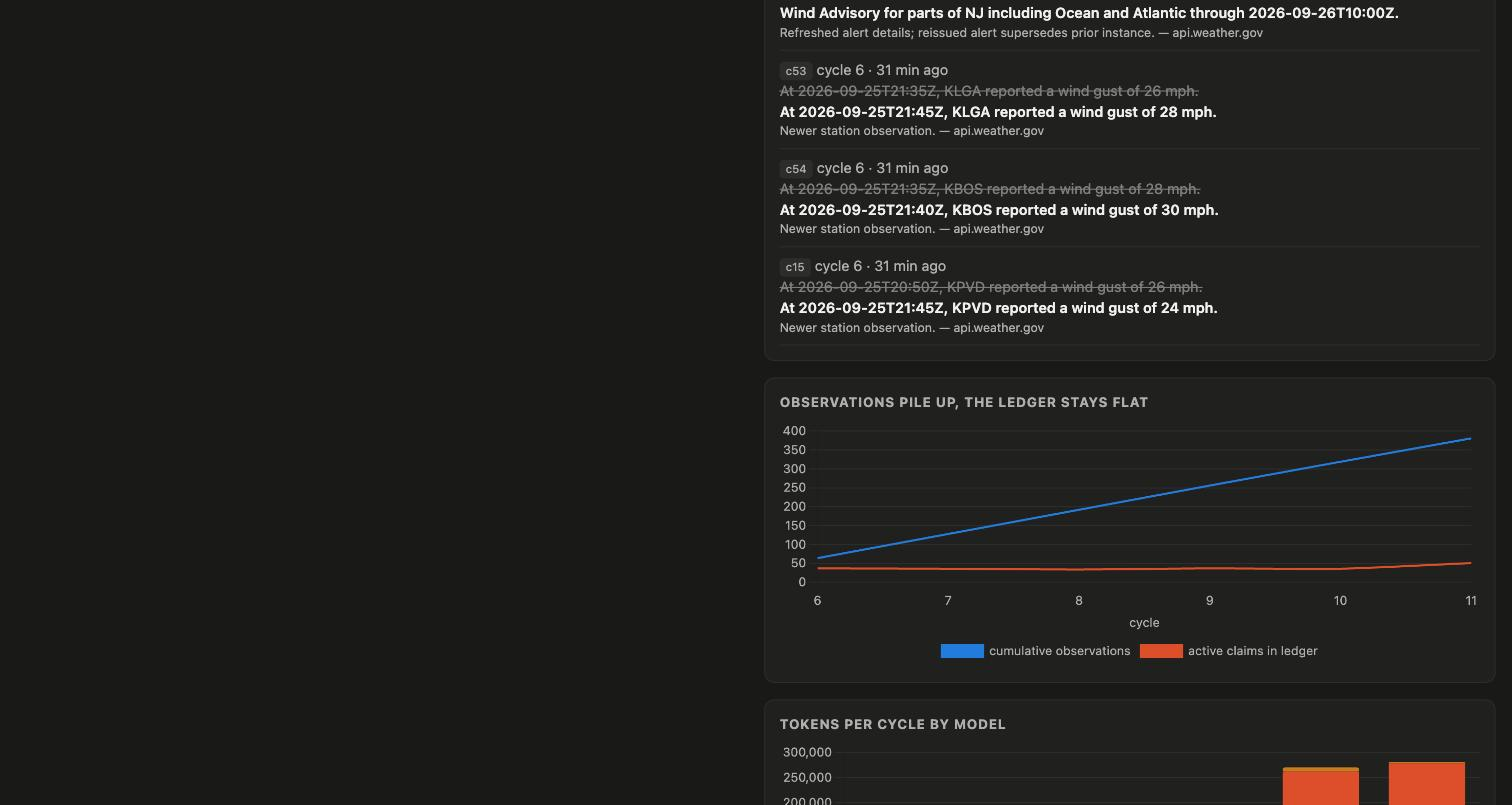
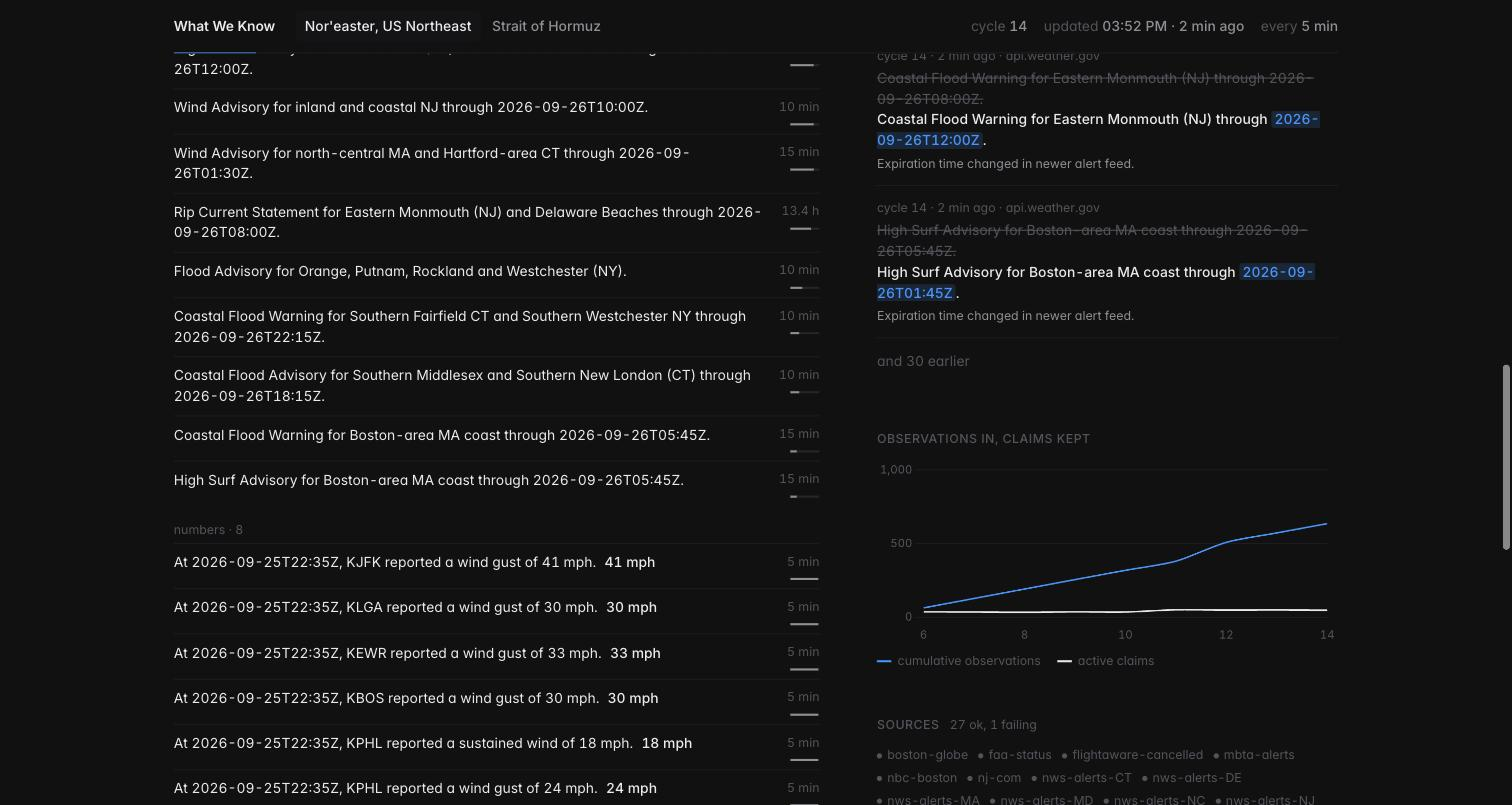
Dashboard redesign: hero summary, change diff, dense claims, single accent; README screenshots updated

diff --git a/src/dashboard/index.html b/src/dashboard/index.html
@@ -4,94 +4,131 @@
 <meta charset="utf-8">
 <meta name="viewport" content="width=device-width, initial-scale=1">
 <title>What We Know</title>
+<link rel="preconnect" href="https://fonts.googleapis.com"><link rel="preconnect" href="https://fonts.gstatic.com" crossorigin>
+<link href="https://fonts.googleapis.com/css2?family=Inter:wght@400;500;600&display=swap" rel="stylesheet">
 <script src="https://cdn.jsdelivr.net/npm/chart.js@4.4.1/dist/chart.umd.min.js"></script>
 <style>
-:root{--bg:#fcfcfb;--panel:#ffffff;--ink:#1a1a19;--ink2:#5a5a58;--muted:#8a8a88;--line:#e6e6e3;--c1:#2a78d6;--c2:#eb6834;--c3:#1baf7a;--c4:#eda100;--good:#008300;--bad:#c62828}
-@media (prefers-color-scheme: dark){:root:not([data-theme="light"]){--bg:#1a1a19;--panel:#232322;--ink:#f2f2f0;--ink2:#b8b8b4;--muted:#8a8a88;--line:#333331;--c1:#3987e5;--c2:#d95926;--c3:#199e70;--c4:#c98500;--good:#4caf50;--bad:#ef5350}}
-*{box-sizing:border-box}body{margin:0;background:var(--bg);color:var(--ink);font:14px/1.45 -apple-system,BlinkMacSystemFont,"Segoe UI",Inter,sans-serif;padding:16px}
-header{display:flex;flex-wrap:wrap;gap:12px 24px;align-items:baseline;margin-bottom:14px}
-h1{font-size:20px;margin:0}h2{font-size:13px;text-transform:uppercase;letter-spacing:.06em;color:var(--ink2);margin:0 0 8px}
-select{font:inherit;padding:4px 8px;background:var(--panel);color:var(--ink);border:1px solid var(--line);border-radius:6px}
-.kv{color:var(--ink2)}.kv b{color:var(--ink);font-weight:600}
-.grid{display:grid;grid-template-columns:1fr 1fr;gap:16px}@media(max-width:900px){.grid{grid-template-columns:1fr}}
-.panel{background:var(--panel);border:1px solid var(--line);border-radius:10px;padding:14px;margin-bottom:16px}
-p.summary{font-size:16px;line-height:1.5;margin:0}
-table{width:100%;border-collapse:collapse;font-size:13px}th,td{text-align:left;padding:5px 6px;border-bottom:1px solid var(--line);vertical-align:top}th{color:var(--ink2);font-weight:600}
-.num{text-align:right;font-variant-numeric:tabular-nums}.tag{display:inline-block;padding:1px 6px;border-radius:4px;font-size:11px;background:var(--line);color:var(--ink2)}
-.corr{padding:8px 0;border-bottom:1px solid var(--line)}.corr .from{color:var(--muted);text-decoration:line-through}.corr .to{font-weight:600}.corr .why{color:var(--ink2);font-size:12px}
-.health{display:grid;grid-template-columns:repeat(auto-fill,minmax(150px,1fr));gap:6px}.health div{border:1px solid var(--line);border-radius:6px;padding:5px 7px;font-size:12px}
-.dot{display:inline-block;width:8px;height:8px;border-radius:50%;margin-right:5px}.ok{background:var(--good)}.bad{background:var(--bad)}
-.sponsors{display:grid;grid-template-columns:repeat(auto-fill,minmax(160px,1fr));gap:10px}.sponsors div{border:1px solid var(--line);border-radius:8px;padding:8px 10px}.sponsors b{display:block;font-size:20px}.sponsors small{color:var(--ink2)}
-canvas{max-height:240px}img.card{width:100%;border-radius:8px;border:1px solid var(--line)}
-.oq li{margin:2px 0}.warn{color:var(--bad)}
+/* One accent. Everything else is a gray scale. Red exists only for a broken source. */
+:root{--bg:#0f0f10;--bg2:#141416;--ink:#ededef;--ink2:#9a9aa1;--ink3:#5e5e66;--line:#1f1f23;--line2:#2a2a30;--accent:#5e9eff;--accent-dim:rgba(94,158,255,.16);--bad:#f0625d}
+@media (prefers-color-scheme: light){:root:not([data-theme="dark"]){--bg:#fcfcfc;--bg2:#f5f5f6;--ink:#151517;--ink2:#6b6b73;--ink3:#a4a4ab;--line:#ececee;--line2:#dcdce0;--accent:#2a6fdb;--accent-dim:rgba(42,111,219,.12);--bad:#d33b36}}
+*{box-sizing:border-box}html{-webkit-font-smoothing:antialiased}
+body{margin:0;background:var(--bg);color:var(--ink);font:13.5px/1.5 Inter,-apple-system,BlinkMacSystemFont,"Segoe UI",sans-serif;font-feature-settings:"tnum" 1,"cv11" 1}
+a{color:inherit;text-decoration:none}
+.wrap{max-width:1180px;margin:0 auto;padding:0 24px 64px}
+/* top bar: story as tabs, quiet meta, a 1px refresh progress line */
+.bar{position:sticky;top:0;z-index:2;background:var(--bg);display:flex;align-items:center;gap:20px;height:52px;border-bottom:1px solid var(--line)}
+.brand{font-weight:600;letter-spacing:-.01em}
+.tabs{display:flex;gap:2px}.tab{padding:5px 9px;border-radius:6px;color:var(--ink2);cursor:pointer;font-weight:500}.tab:hover{background:var(--bg2);color:var(--ink)}.tab.on{color:var(--ink);background:var(--bg2)}
+.meta{margin-left:auto;color:var(--ink3);display:flex;gap:16px;white-space:nowrap}.meta b{color:var(--ink2);font-weight:500}
+.progress{position:absolute;left:0;bottom:-1px;height:1px;background:var(--accent);width:0;opacity:.8;transition:width 1s linear}
+/* hero: the summary is the product */
+.hero{padding:40px 0 28px;border-bottom:1px solid var(--line)}
+.hero h1{font-size:12px;font-weight:500;color:var(--ink3);letter-spacing:.04em;text-transform:uppercase;margin:0 0 14px}
+.summary{font-size:21px;line-height:1.45;font-weight:400;letter-spacing:-.012em;margin:0;max-width:880px}
+.stat{display:flex;gap:28px;margin-top:22px;color:var(--ink2)}.stat b{color:var(--ink);font-weight:500}.stat .chg{color:var(--accent)}
+.cols{display:grid;grid-template-columns:minmax(0,7fr) minmax(0,5fr);gap:56px;padding-top:32px}
+@media(max-width:900px){.cols{grid-template-columns:1fr;gap:32px}.meta{display:none}}
+h2{font-size:12px;font-weight:500;color:var(--ink3);letter-spacing:.04em;text-transform:uppercase;margin:0 0 12px;display:flex;align-items:baseline;gap:10px}h2 span{color:var(--ink3);font-weight:400;text-transform:none;letter-spacing:0}
+section{margin-bottom:44px}
+/* claims: dense rows, confidence as a hairline, type as a muted word, sources on hover */
+.claim{display:grid;grid-template-columns:1fr auto;gap:16px;padding:8px 0;border-top:1px solid var(--line);align-items:start}
+.claim:first-child{border-top:0}.claim .t{color:var(--ink)}.claim .r{color:var(--ink3);white-space:nowrap;text-align:right;font-size:12px}
+.claim .v{color:var(--ink);font-weight:500;margin-left:8px}.claim .src{display:none;color:var(--ink3);font-size:12px;margin-top:2px}
+.claim:hover .src{display:block}.claim .conf{display:block;width:28px;height:2px;background:var(--line2);margin:7px 0 0 auto}
+.claim .conf i{display:block;height:2px;background:var(--ink2)}
+.group{color:var(--ink3);font-size:12px;padding:14px 0 4px}
+/* corrections: a diff. old is struck and muted; new is the only accented text on the page. */
+.corr{padding:12px 0;border-top:1px solid var(--line)}.corr:first-child{border-top:0}
+.corr .when{color:var(--ink3);font-size:12px;margin-bottom:3px}.corr .old{color:var(--ink3);text-decoration:line-through;text-decoration-color:var(--ink3)}
+.corr .new{color:var(--ink);font-weight:500}.corr .new mark{background:var(--accent-dim);color:var(--accent);padding:0 3px;border-radius:3px}
+.corr .why{color:var(--ink2);font-size:12px;margin-top:3px}
+.oq li{color:var(--ink2);margin:4px 0;padding-left:14px;position:relative}.oq li:before{content:"?";position:absolute;left:0;color:var(--ink3)}
+/* chart: one accented line, one white line, no grid noise */
+.chart{height:180px}.legend{display:flex;gap:16px;color:var(--ink3);font-size:12px;margin-top:6px}.legend i{display:inline-block;width:14px;height:2px;vertical-align:middle;margin-right:6px}
+.health{display:flex;flex-wrap:wrap;gap:4px 10px;font-size:12px;color:var(--ink3)}.health span:before{content:"";display:inline-block;width:5px;height:5px;border-radius:50%;background:var(--ink3);margin-right:5px;vertical-align:middle}.health span.bad{color:var(--bad)}.health span.bad:before{background:var(--bad)}
+.card{width:100%;border-radius:8px;border:1px solid var(--line);display:block}
+.foot{color:var(--ink3);font-size:12px;border-top:1px solid var(--line);padding-top:16px;display:flex;flex-wrap:wrap;gap:6px 22px}.foot b{color:var(--ink2);font-weight:500}
+.empty{color:var(--ink3)}
+@media (prefers-reduced-motion: reduce){.progress{transition:none}}
 </style>
 </head>
 <body>
-<header>
-  <h1>What We Know</h1>
-  <select id="story"></select>
-  <span class="kv">cycle <b id="cycle">–</b></span>
-  <span class="kv">running since <b id="since">–</b></span>
-  <span class="kv">cycles <b id="cycles">–</b></span>
-  <span class="kv">last cycle <b id="lastms">–</b></span>
-  <span class="kv" id="rt"></span>
-</header>
-<div class="grid">
-  <div>
-    <div class="panel"><h2>Summary</h2><p class="summary" id="summary">Waiting for the first ledger…</p><div class="kv" style="margin-top:6px" id="summaryBy"></div></div>
-    <div class="panel"><h2>Claims <span class="tag" id="claimCount"></span></h2><table><thead><tr><th>claim</th><th>type</th><th class="num">value</th><th class="num">conf</th><th>confirmed</th><th class="num">src</th></tr></thead><tbody id="claims"></tbody></table></div>
-    <div class="panel"><h2>Open questions</h2><ul class="oq" id="oq"></ul></div>
+<div class="wrap">
+  <div class="bar">
+    <span class="brand">What We Know</span>
+    <nav class="tabs" id="tabs"></nav>
+    <div class="meta"><span>cycle <b id="cycle">–</b></span><span>updated <b id="updated">–</b></span><span>every <b>5 min</b></span></div>
+    <div class="progress" id="progress"></div>
   </div>
-  <div>
-    <div class="panel"><h2>Corrections</h2><div id="corrections"></div></div>
-    <div class="panel"><h2>Observations pile up, the ledger stays flat</h2><canvas id="chart1"></canvas></div>
-    <div class="panel"><h2>Tokens per cycle by model</h2><canvas id="chart2"></canvas></div>
-    <div class="panel"><h2>Source health</h2><div class="health" id="health"></div></div>
-    <div class="panel"><h2>Latest situation card</h2><div id="card"><span class="kv">no card yet</span></div></div>
+
+  <div class="hero">
+    <h1 id="title">–</h1>
+    <p class="summary" id="summary">Waiting for the first ledger…</p>
+    <div class="stat" id="stat"></div>
   </div>
+
+  <div class="cols">
+    <div>
+      <section><h2>Claims <span id="claimCount"></span></h2><div id="claims"></div></section>
+      <section><h2>Open questions</h2><ul class="oq" id="oq" style="margin:0;padding:0;list-style:none"></ul></section>
+    </div>
+    <div>
+      <section><h2>What changed <span id="corrCount"></span></h2><div id="corrections"></div></section>
+      <section><h2>Observations in, claims kept</h2><div class="chart"><canvas id="chart1"></canvas></div><div class="legend"><span><i style="background:var(--accent)"></i>cumulative observations</span><span><i style="background:var(--ink)"></i>active claims</span></div></section>
+      <section><h2>Sources <span id="healthCount"></span></h2><div class="health" id="health"></div></section>
+      <section id="cardSec" style="display:none"><h2>Latest card</h2><img class="card" id="card" alt="situation card"><div class="empty" id="cardMeta" style="font-size:12px;margin-top:6px"></div></section>
+    </div>
+  </div>
+
+  <div class="foot" id="foot"></div>
 </div>
-<div class="panel"><h2>Who did what</h2><div class="sponsors" id="sponsors"></div></div>
 <script>
 const $=id=>document.getElementById(id);
 const css=v=>getComputedStyle(document.documentElement).getPropertyValue(v).trim();
-let story=new URLSearchParams(location.search).get('story')||'noreaster';
-const rel=iso=>{if(!iso)return '–';const m=(Date.now()-new Date(iso))/60000;if(m<1)return 'just now';if(m<60)return Math.round(m)+' min ago';return (m/60).toFixed(1)+' h ago'};
 const esc=s=>String(s??'').replace(/[&<>]/g,c=>({'&':'&amp;','<':'&lt;','>':'&gt;'}[c]));
-const j=async p=>{const r=await fetch(p+(p.includes('?')?'&':'?')+'story='+story);return r.json()};
-let ch1,ch2;
-function mkCharts(){
-  const grid={color:css('--line')},ticks={color:css('--ink2')};
-  Chart.defaults.color=css('--ink2');Chart.defaults.font.family=getComputedStyle(document.body).fontFamily;
-  ch1=new Chart($('chart1'),{type:'line',data:{labels:[],datasets:[
-    {label:'cumulative observations',data:[],borderColor:css('--c1'),backgroundColor:css('--c1'),borderWidth:2,pointRadius:0,tension:.2},
-    {label:'active claims in ledger',data:[],borderColor:css('--c2'),backgroundColor:css('--c2'),borderWidth:2,pointRadius:0,tension:.2}]},
-    options:{animation:false,interaction:{mode:'index',intersect:false},plugins:{legend:{position:'bottom'}},scales:{x:{title:{display:true,text:'cycle'},grid:{display:false},ticks},y:{beginAtZero:true,grid,ticks}}}});
-  ch2=new Chart($('chart2'),{type:'bar',data:{labels:[],datasets:[]},options:{animation:false,interaction:{mode:'index',intersect:false},plugins:{legend:{position:'bottom'}},scales:{x:{stacked:true,title:{display:true,text:'cycle'},grid:{display:false},ticks},y:{stacked:true,beginAtZero:true,grid,ticks}}}});
-}
-const provColor={openai:css('--c1'),liquid:css('--c2'),bedrock:css('--c3'),'openai-fallback':css('--c4')};
-async function refresh(){
-  try{
-    const [st,led,co,se,he,ca,sp]=await Promise.all([j('/api/status'),j('/api/ledger'),j('/api/corrections'),j('/api/series'),j('/api/health'),j('/api/cards'),j('/api/sponsors')]);
-    $('rt').innerHTML=st.rawtree?'':'<span class="warn">RawTree not configured: showing local cache only</span>';
-    const L=led.ledger;$('cycle').textContent=L?L.cycle:'–';$('since').textContent=st.since?new Date(st.since).toLocaleTimeString([], {hour:'2-digit',minute:'2-digit'})+' ('+rel(st.since)+')':'–';
-    $('cycles').textContent=st.cycles??'–';$('lastms').textContent=st.last?Math.round(st.last.ms/1000)+' s':'–';
-    if(L){$('summary').textContent=L.summary||'(empty)';$('summaryBy').textContent=st.last?('summary by '+st.last.summary_by+' · merge by '+st.last.merge_model+' · triage by '+st.last.triage_model+' · ledger ~'+st.last.ledger_tokens+' tokens'):'';
-      const act=L.claims.filter(c=>c.status==='active').sort((a,b)=>b.confidence-a.confidence);$('claimCount').textContent=act.length+' active';
-      $('claims').innerHTML=act.map(c=>`<tr><td>${esc(c.text)}</td><td><span class="tag">${c.type}</span></td><td class="num">${c.value!=null?esc(c.value.toLocaleString()+' '+(c.unit||'')):''}</td><td class="num">${c.confidence.toFixed(2)}</td><td>${rel(c.last_confirmed)}</td><td class="num">${c.sources.length}</td></tr>`).join('');
-      $('oq').innerHTML=L.open_questions.map(q=>`<li>${esc(q)}</li>`).join('')||'<li class="kv">none</li>';}
-    $('corrections').innerHTML=co.corrections.length?co.corrections.map(c=>`<div class="corr"><div><span class="tag">${esc(c.claim_id)}</span> <span class="kv">cycle ${c.cycle} · ${rel(c.ts)}</span></div><div class="from">${esc(c.from_text)}</div><div class="to">${esc(c.to_text)}</div><div class="why">${esc(c.reason)} — ${esc(c.source)}</div></div>`).join(''):'<span class="kv">no corrections yet</span>';
-    const cycles=[...new Set([...se.observations.map(o=>o.cycle),...se.claims.map(c=>c.cycle)])].sort((a,b)=>a-b);
-    ch1.data.labels=cycles;const om=new Map(se.observations.map(o=>[o.cycle,o.cumulative])),cm=new Map(se.claims.map(c=>[c.cycle,c.active]));
-    ch1.data.datasets[0].data=cycles.map(c=>om.get(c)??null);ch1.data.datasets[1].data=cycles.map(c=>cm.get(c)??null);ch1.update();
-    const provs=[...new Set(se.tokens.map(t=>t.provider))];const tc=[...new Set(se.tokens.map(t=>t.cycle))].sort((a,b)=>a-b);
-    ch2.data.labels=tc;ch2.data.datasets=provs.map(p=>({label:p,data:tc.map(c=>se.tokens.filter(t=>t.cycle===c&&t.provider===p).reduce((a,t)=>a+t.tokens,0)),backgroundColor:provColor[p]||css('--muted'),borderRadius:3,borderSkipped:false}));ch2.update();
-    $('health').innerHTML=he.sources.map(s=>`<div title="${esc(s.last_error||'')}"><span class="dot ${s.healthy?'ok':'bad'}"></span>${esc(s.source_id)}<br><span class="kv">${s.healthy?'ok '+rel(s.last_ok):'fails '+s.fail_count}</span></div>`).join('')||'<span class="kv">no health rows yet</span>';
-    if(ca.cards[0]){const c=ca.cards[0];$('card').innerHTML=`<img class="card" src="/${esc(String(c.path).replace(/^out\//,''))}"><div class="kv">cycle ${c.cycle} · ${esc(c.reason)} · ${esc(c.numbers)}</div>`}
-    $('sponsors').innerHTML=[['Liquid AI','snippets triaged',sp.liquid_triaged],['OpenAI','ledger merges',sp.openai_merges],['AWS Bedrock','summaries',sp.bedrock_summaries],['Nimble','pages + searches',sp.nimble_pages],['Tinybird RawTree','rows stored',sp.rawtree_rows],['Black Forest Labs','FLUX cards',sp.flux_cards],['Broccoli / tickets','fix tickets',sp.tickets],['OpenAI fallback','triage fallbacks',sp.openai_fallback_triaged]].map(([n,w,v])=>`<div><small>${n}</small><b>${(v??0).toLocaleString()}</b><small>${w}</small></div>`).join('');
-  }catch(e){console.error(e)}
-}
-(async()=>{const s=await fetch('/api/stories').then(r=>r.json());$('story').innerHTML=s.stories.map(x=>`<option ${x===story?'selected':''}>${x}</option>`).join('');
-  $('story').onchange=e=>{story=e.target.value;history.replaceState(null,'','?story='+story);refresh()};mkCharts();refresh();setInterval(refresh,30000)})();
+const rel=iso=>{if(!iso)return '–';const m=(Date.now()-new Date(iso))/60000;if(m<1)return 'now';if(m<60)return Math.round(m)+' min';if(m<1440)return (m/60).toFixed(1)+' h';return Math.round(m/1440)+' d'};
+const clock=iso=>iso?new Date(iso).toLocaleTimeString([], {hour:'2-digit',minute:'2-digit'}):'–';
+let story=new URLSearchParams(location.search).get('story')||'noreaster';
+const j=async p=>(await fetch(p+(p.includes('?')?'&':'?')+'story='+story)).json();
+const TITLES={noreaster:"Nor'easter, US Northeast",hormuz:"Strait of Hormuz"};
+/* highlight what differs between old and new text: numbers and times get the accent */
+const TOK=/\d{4}-\d{2}-\d{2}(?:T\d{2}:\d{2}(?::\d{2})?Z)?|\d{1,2}:\d{2}(?:Z|\s?[AP]M)?|\d[\d,.]*\s?(?:mph|%|customers|flights|bbl|vessels|barrels|hours?|minutes?|km\/h|ft|inches)?/g;
+function diffMark(oldT,newT){const old=new Set(oldT.match(TOK)||[]);return esc(newT).replace(TOK,m=>old.has(m)?m:'<mark>'+m+'</mark>')}
+let ch;
+function mkChart(){Chart.defaults.font.family='Inter, sans-serif';Chart.defaults.font.size=11;ch=new Chart($('chart1'),{type:'line',data:{labels:[],datasets:[
+ {data:[],borderColor:css('--accent'),borderWidth:1.5,pointRadius:0,tension:.25},{data:[],borderColor:css('--ink'),borderWidth:1.5,pointRadius:0,tension:.25}]},
+ options:{animation:false,maintainAspectRatio:false,interaction:{mode:'index',intersect:false},plugins:{legend:{display:false},tooltip:{backgroundColor:css('--bg2'),titleColor:css('--ink2'),bodyColor:css('--ink'),borderColor:css('--line2'),borderWidth:1,displayColors:false,callbacks:{title:i=>'cycle '+i[0].label,label:i=>(i.datasetIndex?'active claims ':'observations ')+i.formattedValue}}},
+ scales:{x:{grid:{display:false},border:{color:css('--line')},ticks:{color:css('--ink3'),maxTicksLimit:8}},y:{beginAtZero:true,grid:{color:css('--line')},border:{display:false},ticks:{color:css('--ink3'),maxTicksLimit:4}}}}})}
+let tick=0;
+async function refresh(){try{
+ const [st,led,co,se,he,ca,sp]=await Promise.all([j('/api/status'),j('/api/ledger'),j('/api/corrections'),j('/api/series'),j('/api/health'),j('/api/cards'),j('/api/sponsors')]);
+ const L=led.ledger;document.title=(L?L.summary.slice(0,60)+'… · ':'')+'What We Know';
+ $('title').textContent=TITLES[story.replace(/-.*$/,'')]||story;
+ $('cycle').textContent=L?L.cycle:'–';$('updated').textContent=L?clock(L.updated_at)+(rel(L.updated_at)==='now'?' · just now':' · '+rel(L.updated_at)+' ago'):'–';
+ if(L){$('summary').textContent=L.summary||'(no summary yet)';
+  const act=L.claims.filter(c=>c.status==='active');
+  const obsTotal=se.observations.length?se.observations[se.observations.length-1].cumulative:0;
+  $('stat').innerHTML=`<span><b>${obsTotal.toLocaleString()}</b> observations in</span><span><b>${act.length}</b> claims kept</span><span class="chg"><b style="color:inherit">${co.corrections.length}</b> corrections</span><span><b>~${(st.last?.ledger_tokens??0).toLocaleString()}</b> tokens of state</span>`;
+  const order=['warning','number','event','forecast','statement'];const groups=order.map(t=>[t,act.filter(c=>c.type===t).sort((a,b)=>b.confidence-a.confidence)]).filter(g=>g[1].length);
+  $('claimCount').textContent=act.length+' active';
+  $('claims').innerHTML=groups.map(([t,cs])=>`<div class="group">${t}s · ${cs.length}</div>`+cs.map(c=>`<div class="claim"><div><span class="t">${esc(c.text)}</span>${c.value!=null&&!c.text.includes(String(c.value))?`<span class="v">${esc(c.value.toLocaleString())} ${esc(c.unit||'')}</span>`:''}<div class="src">${c.sources.map(s=>esc(s.replace(/^https?:\/\/(www\.)?/,'').split('/')[0])).join(' · ')}</div></div><div class="r" title="confirmed ${esc(c.last_confirmed)} · confidence ${c.confidence.toFixed(2)}">${rel(c.last_confirmed)}<span class="conf"><i style="width:${Math.round(c.confidence*100)}%"></i></span></div></div>`).join('')).join('');
+  $('oq').innerHTML=L.open_questions.map(q=>`<li>${esc(q)}</li>`).join('')||'<li class="empty">none</li>';}
+ $('corrCount').textContent=co.corrections.length?co.corrections.length+' total':'';
+ const more=Math.max(0,co.corrections.length-10);
+ $('corrections').innerHTML=co.corrections.length?co.corrections.slice(0,10).map(c=>`<div class="corr"><div class="when">cycle ${c.cycle} · ${rel(c.ts)==='now'?'just now':rel(c.ts)+' ago'} · ${esc(String(c.source||'').replace(/^https?:\/\/(www\.)?/,'').split('/')[0])}</div><div class="old">${esc(c.from_text)}</div><div class="new">${diffMark(c.from_text,c.to_text)}</div><div class="why">${esc(c.reason)}</div></div>`).join('')+(more?`<div class="corr empty">and ${more} earlier</div>`:''):'<div class="empty">nothing has changed yet</div>';
+ const cycles=[...new Set([...se.observations.map(o=>o.cycle),...se.claims.map(c=>c.cycle)])].sort((a,b)=>a-b);
+ const om=new Map(se.observations.map(o=>[o.cycle,o.cumulative])),cm=new Map(se.claims.map(c=>[c.cycle,c.active]));
+ ch.data.labels=cycles;ch.data.datasets[0].data=cycles.map(c=>om.get(c)??null);ch.data.datasets[1].data=cycles.map(c=>cm.get(c)??null);ch.update();
+ const bad=he.sources.filter(s=>!s.healthy);$('healthCount').textContent=he.sources.length?`${he.sources.length-bad.length} ok${bad.length?', '+bad.length+' failing':''}`:'';
+ $('health').innerHTML=he.sources.map(s=>`<span class="${s.healthy?'':'bad'}" title="${esc(s.healthy?'ok '+rel(s.last_ok)+' ago':s.last_error||'failing')}">${esc(s.source_id)}</span>`).join('')||'<span class="empty">no data yet</span>';
+ if(ca.cards&&ca.cards[0]){const c=ca.cards[0];$('cardSec').style.display='';$('card').src='/'+String(c.path).replace(/^out\//,'');$('cardMeta').textContent=`cycle ${c.cycle} · ${c.reason} · FLUX`;}
+ $('foot').innerHTML=[['Liquid AI',sp.liquid_triaged,'snippets triaged'],['OpenAI',sp.openai_merges,'merges'],['Nimble',sp.nimble_pages,'pages'],['RawTree',sp.rawtree_rows,'rows'],['FLUX',sp.flux_cards,'cards'],['tickets',sp.tickets,'written'],['Bedrock',sp.bedrock_summaries,'summaries']].map(([n,v,w])=>`<span><b>${n}</b> ${(v??0).toLocaleString()} ${w}</span>`).join('');
+}catch(e){console.error(e)}}
+function tabs(){fetch('/api/stories').then(r=>r.json()).then(s=>{const list=s.stories.filter(x=>!/-(sandbox|dry)$/.test(x)||x===story);$('tabs').innerHTML=list.map((x,i)=>`<a class="tab ${x===story?'on':''}" data-s="${x}" title="press ${i+1}">${TITLES[x]||x}</a>`).join('');
+ $('tabs').querySelectorAll('.tab').forEach(t=>t.onclick=()=>go(t.dataset.s));document.onkeydown=e=>{const n=Number(e.key);if(n>=1&&n<=list.length&&!e.metaKey)go(list[n-1])}})}
+function go(s){story=s;history.replaceState(null,'','?story='+s);tabs();tick=0;refresh()}
+mkChart();tabs();refresh();
+setInterval(()=>{tick=(tick+1)%30;$('progress').style.width=(tick/29*100)+'%';if(tick===0)refresh()},1000);
 </script>
 </body>
 </html>

diff --git a/src/dashboard/index.v1.html b/src/dashboard/index.v1.html
@@ -1,0 +1,97 @@
+<!doctype html>
+<html lang="en">
+<head>
+<meta charset="utf-8">
+<meta name="viewport" content="width=device-width, initial-scale=1">
+<title>What We Know</title>
+<script src="https://cdn.jsdelivr.net/npm/chart.js@4.4.1/dist/chart.umd.min.js"></script>
+<style>
+:root{--bg:#fcfcfb;--panel:#ffffff;--ink:#1a1a19;--ink2:#5a5a58;--muted:#8a8a88;--line:#e6e6e3;--c1:#2a78d6;--c2:#eb6834;--c3:#1baf7a;--c4:#eda100;--good:#008300;--bad:#c62828}
+@media (prefers-color-scheme: dark){:root:not([data-theme="light"]){--bg:#1a1a19;--panel:#232322;--ink:#f2f2f0;--ink2:#b8b8b4;--muted:#8a8a88;--line:#333331;--c1:#3987e5;--c2:#d95926;--c3:#199e70;--c4:#c98500;--good:#4caf50;--bad:#ef5350}}
+*{box-sizing:border-box}body{margin:0;background:var(--bg);color:var(--ink);font:14px/1.45 -apple-system,BlinkMacSystemFont,"Segoe UI",Inter,sans-serif;padding:16px}
+header{display:flex;flex-wrap:wrap;gap:12px 24px;align-items:baseline;margin-bottom:14px}
+h1{font-size:20px;margin:0}h2{font-size:13px;text-transform:uppercase;letter-spacing:.06em;color:var(--ink2);margin:0 0 8px}
+select{font:inherit;padding:4px 8px;background:var(--panel);color:var(--ink);border:1px solid var(--line);border-radius:6px}
+.kv{color:var(--ink2)}.kv b{color:var(--ink);font-weight:600}
+.grid{display:grid;grid-template-columns:1fr 1fr;gap:16px}@media(max-width:900px){.grid{grid-template-columns:1fr}}
+.panel{background:var(--panel);border:1px solid var(--line);border-radius:10px;padding:14px;margin-bottom:16px}
+p.summary{font-size:16px;line-height:1.5;margin:0}
+table{width:100%;border-collapse:collapse;font-size:13px}th,td{text-align:left;padding:5px 6px;border-bottom:1px solid var(--line);vertical-align:top}th{color:var(--ink2);font-weight:600}
+.num{text-align:right;font-variant-numeric:tabular-nums}.tag{display:inline-block;padding:1px 6px;border-radius:4px;font-size:11px;background:var(--line);color:var(--ink2)}
+.corr{padding:8px 0;border-bottom:1px solid var(--line)}.corr .from{color:var(--muted);text-decoration:line-through}.corr .to{font-weight:600}.corr .why{color:var(--ink2);font-size:12px}
+.health{display:grid;grid-template-columns:repeat(auto-fill,minmax(150px,1fr));gap:6px}.health div{border:1px solid var(--line);border-radius:6px;padding:5px 7px;font-size:12px}
+.dot{display:inline-block;width:8px;height:8px;border-radius:50%;margin-right:5px}.ok{background:var(--good)}.bad{background:var(--bad)}
+.sponsors{display:grid;grid-template-columns:repeat(auto-fill,minmax(160px,1fr));gap:10px}.sponsors div{border:1px solid var(--line);border-radius:8px;padding:8px 10px}.sponsors b{display:block;font-size:20px}.sponsors small{color:var(--ink2)}
+canvas{max-height:240px}img.card{width:100%;border-radius:8px;border:1px solid var(--line)}
+.oq li{margin:2px 0}.warn{color:var(--bad)}
+</style>
+</head>
+<body>
+<header>
+  <h1>What We Know</h1>
+  <select id="story"></select>
+  <span class="kv">cycle <b id="cycle">–</b></span>
+  <span class="kv">running since <b id="since">–</b></span>
+  <span class="kv">cycles <b id="cycles">–</b></span>
+  <span class="kv">last cycle <b id="lastms">–</b></span>
+  <span class="kv" id="rt"></span>
+</header>
+<div class="grid">
+  <div>
+    <div class="panel"><h2>Summary</h2><p class="summary" id="summary">Waiting for the first ledger…</p><div class="kv" style="margin-top:6px" id="summaryBy"></div></div>
+    <div class="panel"><h2>Claims <span class="tag" id="claimCount"></span></h2><table><thead><tr><th>claim</th><th>type</th><th class="num">value</th><th class="num">conf</th><th>confirmed</th><th class="num">src</th></tr></thead><tbody id="claims"></tbody></table></div>
+    <div class="panel"><h2>Open questions</h2><ul class="oq" id="oq"></ul></div>
+  </div>
+  <div>
+    <div class="panel"><h2>Corrections</h2><div id="corrections"></div></div>
+    <div class="panel"><h2>Observations pile up, the ledger stays flat</h2><canvas id="chart1"></canvas></div>
+    <div class="panel"><h2>Tokens per cycle by model</h2><canvas id="chart2"></canvas></div>
+    <div class="panel"><h2>Source health</h2><div class="health" id="health"></div></div>
+    <div class="panel"><h2>Latest situation card</h2><div id="card"><span class="kv">no card yet</span></div></div>
+  </div>
+</div>
+<div class="panel"><h2>Who did what</h2><div class="sponsors" id="sponsors"></div></div>
+<script>
+const $=id=>document.getElementById(id);
+const css=v=>getComputedStyle(document.documentElement).getPropertyValue(v).trim();
+let story=new URLSearchParams(location.search).get('story')||'noreaster';
+const rel=iso=>{if(!iso)return '–';const m=(Date.now()-new Date(iso))/60000;if(m<1)return 'just now';if(m<60)return Math.round(m)+' min ago';return (m/60).toFixed(1)+' h ago'};
+const esc=s=>String(s??'').replace(/[&<>]/g,c=>({'&':'&amp;','<':'&lt;','>':'&gt;'}[c]));
+const j=async p=>{const r=await fetch(p+(p.includes('?')?'&':'?')+'story='+story);return r.json()};
+let ch1,ch2;
+function mkCharts(){
+  const grid={color:css('--line')},ticks={color:css('--ink2')};
+  Chart.defaults.color=css('--ink2');Chart.defaults.font.family=getComputedStyle(document.body).fontFamily;
+  ch1=new Chart($('chart1'),{type:'line',data:{labels:[],datasets:[
+    {label:'cumulative observations',data:[],borderColor:css('--c1'),backgroundColor:css('--c1'),borderWidth:2,pointRadius:0,tension:.2},
+    {label:'active claims in ledger',data:[],borderColor:css('--c2'),backgroundColor:css('--c2'),borderWidth:2,pointRadius:0,tension:.2}]},
+    options:{animation:false,interaction:{mode:'index',intersect:false},plugins:{legend:{position:'bottom'}},scales:{x:{title:{display:true,text:'cycle'},grid:{display:false},ticks},y:{beginAtZero:true,grid,ticks}}}});
+  ch2=new Chart($('chart2'),{type:'bar',data:{labels:[],datasets:[]},options:{animation:false,interaction:{mode:'index',intersect:false},plugins:{legend:{position:'bottom'}},scales:{x:{stacked:true,title:{display:true,text:'cycle'},grid:{display:false},ticks},y:{stacked:true,beginAtZero:true,grid,ticks}}}});
+}
+const provColor={openai:css('--c1'),liquid:css('--c2'),bedrock:css('--c3'),'openai-fallback':css('--c4')};
+async function refresh(){
+  try{
+    const [st,led,co,se,he,ca,sp]=await Promise.all([j('/api/status'),j('/api/ledger'),j('/api/corrections'),j('/api/series'),j('/api/health'),j('/api/cards'),j('/api/sponsors')]);
+    $('rt').innerHTML=st.rawtree?'':'<span class="warn">RawTree not configured: showing local cache only</span>';
+    const L=led.ledger;$('cycle').textContent=L?L.cycle:'–';$('since').textContent=st.since?new Date(st.since).toLocaleTimeString([], {hour:'2-digit',minute:'2-digit'})+' ('+rel(st.since)+')':'–';
+    $('cycles').textContent=st.cycles??'–';$('lastms').textContent=st.last?Math.round(st.last.ms/1000)+' s':'–';
+    if(L){$('summary').textContent=L.summary||'(empty)';$('summaryBy').textContent=st.last?('summary by '+st.last.summary_by+' · merge by '+st.last.merge_model+' · triage by '+st.last.triage_model+' · ledger ~'+st.last.ledger_tokens+' tokens'):'';
+      const act=L.claims.filter(c=>c.status==='active').sort((a,b)=>b.confidence-a.confidence);$('claimCount').textContent=act.length+' active';
+      $('claims').innerHTML=act.map(c=>`<tr><td>${esc(c.text)}</td><td><span class="tag">${c.type}</span></td><td class="num">${c.value!=null?esc(c.value.toLocaleString()+' '+(c.unit||'')):''}</td><td class="num">${c.confidence.toFixed(2)}</td><td>${rel(c.last_confirmed)}</td><td class="num">${c.sources.length}</td></tr>`).join('');
+      $('oq').innerHTML=L.open_questions.map(q=>`<li>${esc(q)}</li>`).join('')||'<li class="kv">none</li>';}
+    $('corrections').innerHTML=co.corrections.length?co.corrections.map(c=>`<div class="corr"><div><span class="tag">${esc(c.claim_id)}</span> <span class="kv">cycle ${c.cycle} · ${rel(c.ts)}</span></div><div class="from">${esc(c.from_text)}</div><div class="to">${esc(c.to_text)}</div><div class="why">${esc(c.reason)} — ${esc(c.source)}</div></div>`).join(''):'<span class="kv">no corrections yet</span>';
+    const cycles=[...new Set([...se.observations.map(o=>o.cycle),...se.claims.map(c=>c.cycle)])].sort((a,b)=>a-b);
+    ch1.data.labels=cycles;const om=new Map(se.observations.map(o=>[o.cycle,o.cumulative])),cm=new Map(se.claims.map(c=>[c.cycle,c.active]));
+    ch1.data.datasets[0].data=cycles.map(c=>om.get(c)??null);ch1.data.datasets[1].data=cycles.map(c=>cm.get(c)??null);ch1.update();
+    const provs=[...new Set(se.tokens.map(t=>t.provider))];const tc=[...new Set(se.tokens.map(t=>t.cycle))].sort((a,b)=>a-b);
+    ch2.data.labels=tc;ch2.data.datasets=provs.map(p=>({label:p,data:tc.map(c=>se.tokens.filter(t=>t.cycle===c&&t.provider===p).reduce((a,t)=>a+t.tokens,0)),backgroundColor:provColor[p]||css('--muted'),borderRadius:3,borderSkipped:false}));ch2.update();
+    $('health').innerHTML=he.sources.map(s=>`<div title="${esc(s.last_error||'')}"><span class="dot ${s.healthy?'ok':'bad'}"></span>${esc(s.source_id)}<br><span class="kv">${s.healthy?'ok '+rel(s.last_ok):'fails '+s.fail_count}</span></div>`).join('')||'<span class="kv">no health rows yet</span>';
+    if(ca.cards[0]){const c=ca.cards[0];$('card').innerHTML=`<img class="card" src="/${esc(String(c.path).replace(/^out\//,''))}"><div class="kv">cycle ${c.cycle} · ${esc(c.reason)} · ${esc(c.numbers)}</div>`}
+    $('sponsors').innerHTML=[['Liquid AI','snippets triaged',sp.liquid_triaged],['OpenAI','ledger merges',sp.openai_merges],['AWS Bedrock','summaries',sp.bedrock_summaries],['Nimble','pages + searches',sp.nimble_pages],['Tinybird RawTree','rows stored',sp.rawtree_rows],['Black Forest Labs','FLUX cards',sp.flux_cards],['Broccoli / tickets','fix tickets',sp.tickets],['OpenAI fallback','triage fallbacks',sp.openai_fallback_triaged]].map(([n,w,v])=>`<div><small>${n}</small><b>${(v??0).toLocaleString()}</b><small>${w}</small></div>`).join('');
+  }catch(e){console.error(e)}
+}
+(async()=>{const s=await fetch('/api/stories').then(r=>r.json());$('story').innerHTML=s.stories.map(x=>`<option ${x===story?'selected':''}>${x}</option>`).join('');
+  $('story').onchange=e=>{story=e.target.value;history.replaceState(null,'','?story='+story);refresh()};mkCharts();refresh();setInterval(refresh,30000)})();
+</script>
+</body>
+</html>

diff --git a/README.md b/README.md
@@ -8,6 +8,8 @@ Built at the Long Horizon Agents Hackathon (tokens& · AWS Builder Loft, San Fra
 
 ![observations climb, the ledger stays flat](docs/dashboard-charts.jpg)
 
+The dashboard is one HTML file: hero summary, a diff of what changed with only the changed tokens in color, dense claims grouped by type with confidence as a hairline, one accent line on the chart, and a one-line footer of who did what. Press 1 or 2 to switch stories.
+
 ## The idea
 
 Long-horizon agents rot: observations, actions and stale context pile up until the history slows them down, costs more and makes their own state unreliable. This agent never keeps history. Every five minutes it:
@@ -154,4 +156,11 @@ tickets/            generated fix tickets (committed; they are part of the story
 
 ## Team
 
-Henri Mäkivirta — henri.makivirta@gmail.com
+Solo entry.
+
+- **Henri Mäkivirta** — Co-founder, Memo Technologies
+- SILTA accelerator (F26 cohort)
+- Email: henri.makivirta@gmail.com
+- GitHub: [@henrihjm](https://github.com/henrihjm)
+- X: [@TODO_X_HANDLE](https://x.com/TODO_X_HANDLE)
+- LinkedIn: [henrimakivirta](https://www.linkedin.com/in/henrimakivirta/)

diff --git a/tickets/noreaster-poweroutage-RI.md b/tickets/noreaster-poweroutage-RI.md
@@ -1,0 +1,16 @@
+# Fix source poweroutage-RI for story noreaster
+
+- **Story:** noreaster
+- **Source id:** poweroutage-RI
+- **Kind:** nimble-extract
+- **URL:** https://poweroutage.us/area/state/rhode%20island
+- **Parser:** `src/act/fixed/page.ts`
+- **Consecutive failures:** 3
+- **Last error:** poweroutage-RI timed out after 25000 ms
+- **Opened / last updated:** 2026-09-25T22:52:19.129Z (cycle 14)
+
+## Task for the coding agent
+
+The loop marked this source unhealthy and now polls it only every 6th cycle. Open the parser file above, reproduce the fetch
+against the URL, fix the parsing or the URL, run `npm run sandbox` to confirm the source returns ok, then restart the loop.
+When the source succeeds again the loop resets fail_count and marks it healthy automatically.
